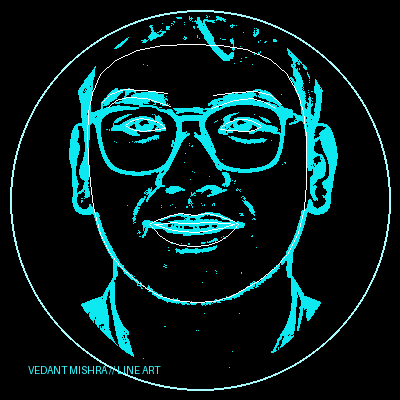
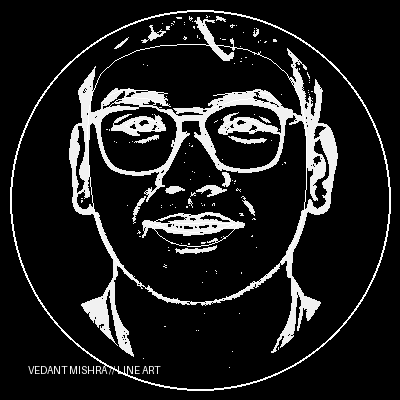
Update profile with pure white text and typography on pitch black theme

diff --git a/README.md b/README.md
@@ -1,21 +1,21 @@
 <div align="center">
-  <img src="https://capsule-render.vercel.app/api?type=waving&color=0:000000,50:080808,100:000000&height=250&section=header&text=Vedant%20Mishra&fontSize=50&fontColor=00F7FF&animation=fadeIn&desc=Full%20Stack%20Developer%20|%20AI%20Builder%20|%20Tech%20Lead&descAlignY=70&descSize=18" alt="Header" /> 
+  <img src="https://capsule-render.vercel.app/api?type=waving&color=0:000000,50:080808,100:000000&height=250&section=header&text=Vedant%20Mishra&fontSize=50&fontColor=FFFFFF&animation=fadeIn&desc=Full%20Stack%20Developer%20|%20AI%20Builder%20|%20Tech%20Lead&descAlignY=70&descSize=18" alt="Header" /> 
 </div>
 
 <p align="center">
   <a href="https://git.io/typing-svg"> 
-    <img src="https://readme-typing-svg.herokuapp.com?size=26&duration=2500&color=00F7FF&center=true&vCenter=true&width=800&lines=Full+Stack+Developer+👨💻;AI+%2F+ML+Enthusiast+🤖;Technical+Lead+%40+BitByBit+Club+🚀;Computer+Vision+%26+Automation+Builder+⚡;Open+for+Freelance+💼" />
+    <img src="https://readme-typing-svg.herokuapp.com?size=26&duration=2500&color=FFFFFF&center=true&vCenter=true&width=800&lines=Full+Stack+Developer+👨💻;AI+%2F+ML+Enthusiast+🤖;Technical+Lead+%40+BitByBit+Club+🚀;Computer+Vision+%26+Automation+Builder+⚡;Open+for+Freelance+💼" />
   </a>
 </p>
 
 <p align="center">
-  <a href="https://www.linkedin.com/in/vedant-mishra-b629612b7/"><img src="https://img.shields.io/badge/LinkedIn-000000?style=for-the-badge&logo=linkedin&logoColor=00F7FF&labelColor=000000"/></a>
-  <a href="https://github.com/vmishra06-cdk"><img src="https://img.shields.io/badge/GitHub-000000?style=for-the-badge&logo=github&logoColor=00F7FF&labelColor=000000"/></a>
-  <a href="mailto:vedantmishra0605@gmail.com"><img src="https://img.shields.io/badge/Email-000000?style=for-the-badge&logo=gmail&logoColor=00F7FF&labelColor=000000"/></a>
-  <a href="https://my-portfolio-roan-one-78.vercel.app/"><img src="https://img.shields.io/badge/Portfolio-000000?style=for-the-badge&logo=Vercel&logoColor=00F7FF&labelColor=000000"/></a>
+  <a href="https://www.linkedin.com/in/vedant-mishra-b629612b7/"><img src="https://img.shields.io/badge/LinkedIn-000000?style=for-the-badge&logo=linkedin&logoColor=FFFFFF&labelColor=000000"/></a>
+  <a href="https://github.com/vmishra06-cdk"><img src="https://img.shields.io/badge/GitHub-000000?style=for-the-badge&logo=github&logoColor=FFFFFF&labelColor=000000"/></a>
+  <a href="mailto:vedantmishra0605@gmail.com"><img src="https://img.shields.io/badge/Email-000000?style=for-the-badge&logo=gmail&logoColor=FFFFFF&labelColor=000000"/></a>
+  <a href="https://my-portfolio-roan-one-78.vercel.app/"><img src="https://img.shields.io/badge/Portfolio-000000?style=for-the-badge&logo=Vercel&logoColor=FFFFFF&labelColor=000000"/></a>
 </p>
 
-<img src="https://raw.githubusercontent.com/andreasbm/readme/master/assets/lines/aqua.png" width="100%">
+---
 
 <div align="center">
   <table>
@@ -38,7 +38,7 @@
   </table>
 </div>
 
-<img src="https://raw.githubusercontent.com/andreasbm/readme/master/assets/lines/aqua.png" width="100%">
+---
 
 <h2 align="center">⚡ Tech Arsenal & Skills</h2>
 
@@ -75,7 +75,7 @@
   </table>
 </div>
 
-<img src="https://raw.githubusercontent.com/andreasbm/readme/master/assets/lines/aqua.png" width="100%">
+---
 
 <h2 align="center">🔥 Featured Projects</h2>
 
@@ -92,7 +92,7 @@
 
 </div>
 
-<img src="https://raw.githubusercontent.com/andreasbm/readme/master/assets/lines/aqua.png" width="100%">
+---
 
 <h2 align="center">🏆 3D GitHub Achievements</h2>
 
@@ -102,20 +102,20 @@
   </a>
 </p>
 
-<img src="https://raw.githubusercontent.com/andreasbm/readme/master/assets/lines/aqua.png" width="100%">
+---
 
 <h2 align="center">📈 GitHub Analytics</h2>
 
 <p align="center">
-  <img src="https://github-readme-stats.vercel.app/api?username=vmishra06-cdk&show_icons=true&bg_color=000000&title_color=00F7FF&text_color=ffffff&icon_color=00F7FF&border_color=1c2128"/>
-  <img src="https://github-readme-streak-stats.herokuapp.com/?user=vmishra06-cdk&background=000000&border=1c2128&stroke=00F7FF&ring=00F7FF&fire=00F7FF&currStreakNum=ffffff&sideNums=ffffff&currStreakLabel=00F7FF&sideLabels=00F7FF"/>
+  <img src="https://github-readme-stats.vercel.app/api?username=vmishra06-cdk&show_icons=true&bg_color=000000&title_color=FFFFFF&text_color=FFFFFF&icon_color=FFFFFF&border_color=222222"/>
+  <img src="https://github-readme-streak-stats.herokuapp.com/?user=vmishra06-cdk&background=000000&border=222222&stroke=FFFFFF&ring=FFFFFF&fire=FFFFFF&currStreakNum=FFFFFF&sideNums=FFFFFF&currStreakLabel=FFFFFF&sideLabels=FFFFFF"/>
 </p>
 
 <p align="center">
-  <img src="https://github-readme-stats.vercel.app/api/top-langs/?username=vmishra06-cdk&layout=compact&bg_color=000000&title_color=00F7FF&text_color=ffffff&border_color=1c2128"/>
+  <img src="https://github-readme-stats.vercel.app/api/top-langs/?username=vmishra06-cdk&layout=compact&bg_color=000000&title_color=FFFFFF&text_color=FFFFFF&border_color=222222"/>
 </p>
 
-<img src="https://raw.githubusercontent.com/andreasbm/readme/master/assets/lines/aqua.png" width="100%">
+---
 
 <h2 align="center">🐍 Contribution Snake</h2>
 
@@ -127,10 +127,10 @@
   </picture>
 </p>
 
-<img src="https://raw.githubusercontent.com/andreasbm/readme/master/assets/lines/aqua.png" width="100%">
+---
 
 <div align="center">
   <p><b>⚡ "Building Smart Systems, Not Just Code." ⚡</b></p>
-  <img src="https://img.shields.io/badge/Built%20With-Love-000000?style=for-the-badge&logoColor=00F7FF"/>
-  <img src="https://img.shields.io/badge/Made%20With-Python-000000?style=for-the-badge&logo=python&logoColor=00F7FF"/>
+  <img src="https://img.shields.io/badge/Built%20With-Love-000000?style=for-the-badge&logoColor=FFFFFF"/>
+  <img src="https://img.shields.io/badge/Made%20With-Python-000000?style=for-the-badge&logo=python&logoColor=FFFFFF"/>
 </div>
